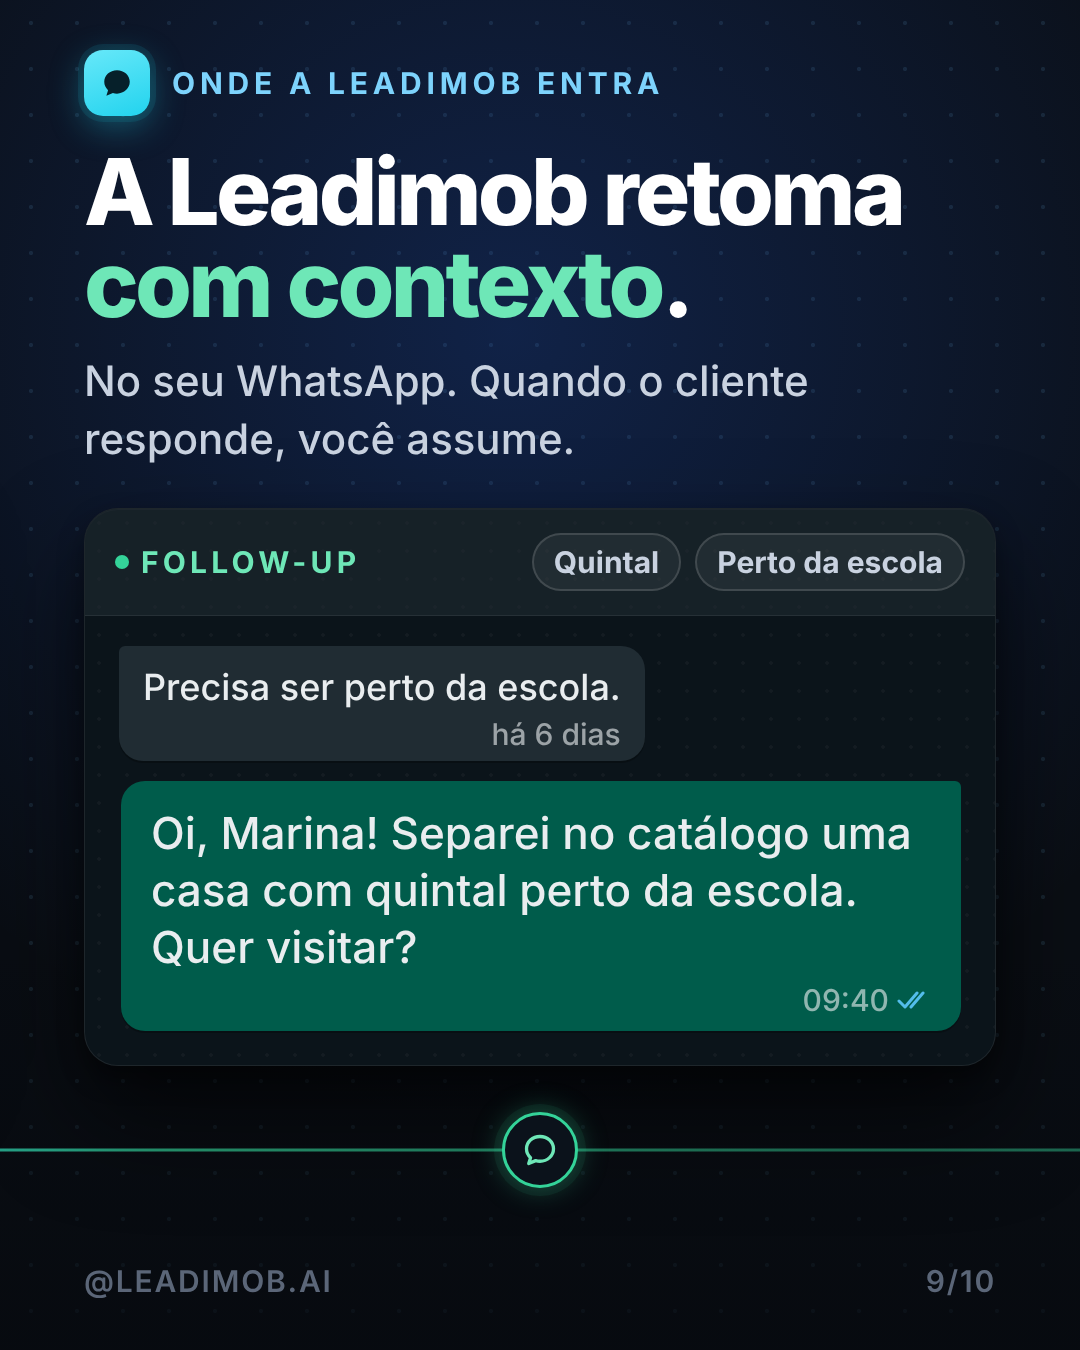
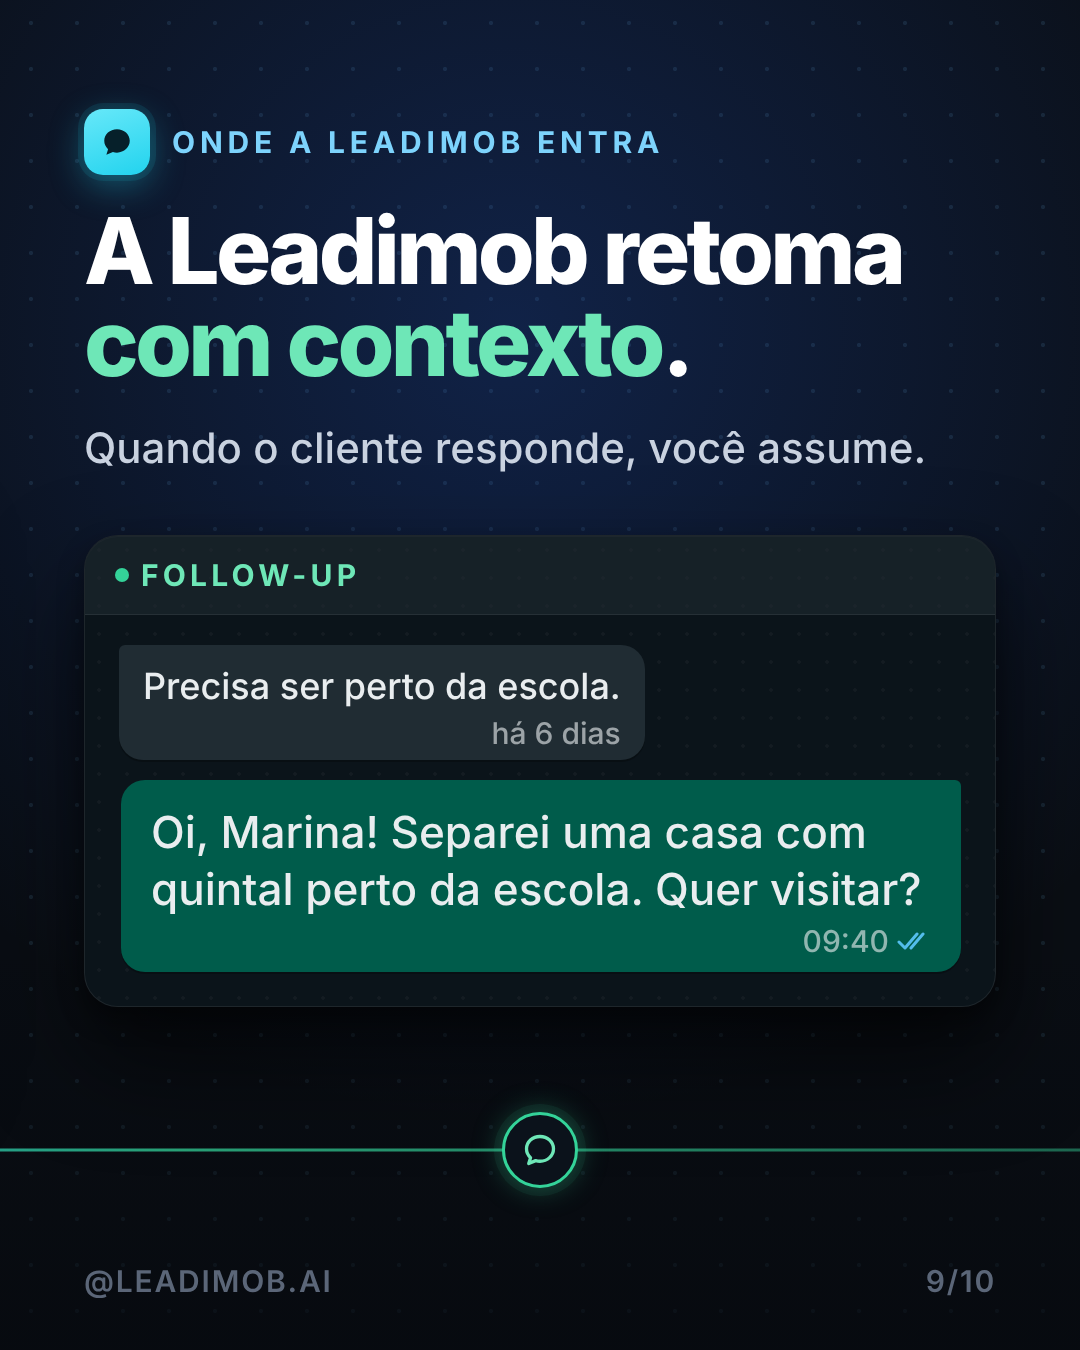
11/10: carrossel ajustes de margem (em crítica final, sem aprovação)
Claude-Session: https://claude.ai/code/session_0145jJKuZvfRBYxMPxCVaBcw

diff --git a/instagram/2026-10-11/src/c1-index.html b/instagram/2026-10-11/src/c1-index.html
@@ -126,11 +126,11 @@ body{background:#0A0E14;width:10800px;height:1350px;overflow:hidden;font-family:
  <div class="p">Algo novo para ele, e uma pergunta fácil de responder.</div>
  <div style="margin-top:50px">
   <div class="ann" style="color:#A5F3FC;margin-left:40px">Motivo novo</div>
-  <div style="position:relative;z-index:3;width:2px;height:96px;background:#22D3EE;margin:14px 0 -62px 96px"></div>
+  <div style="position:relative;z-index:3;width:2px;height:64px;background:#22D3EE;margin:14px 0 -30px 96px"></div>
   <div class="wa" style="padding:30px 34px">
    <div class="bub bout" style="font-size:44px;line-height:1.3;padding:24px 30px 16px;max-width:none;margin-left:0;outline:1px solid rgba(34,211,238,.0)"><span style="color:#fff;font-weight:600">Consegui a planta do apartamento que você pediu.</span> Te mando agora?<div class="bt">14:20 <svg class="tk" viewBox="0 0 34 22"><path d="M2 12l6 6L20 4M14 18l12-14" stroke="#53BDEB" stroke-width="3" fill="none" stroke-linecap="round" stroke-linejoin="round"/></svg></div></div>
   </div>
-  <div id="pqline" style="position:relative;z-index:3;width:2px;height:124px;background:rgba(201,210,224,.7);margin:-90px 300px 14px auto"></div>
+  <div id="pqline" style="position:relative;z-index:3;width:2px;height:64px;background:rgba(201,210,224,.7);margin:-30px 300px 14px auto"></div>
   <div class="ann" style="color:#C9D2E0;justify-content:flex-end;margin-right:40px">Pergunta fácil</div>
  </div>
  <div class="foot"><span>@LEADIMOB.AI</span><span>3/10</span></div></div>
@@ -186,17 +186,17 @@ body{background:#0A0E14;width:10800px;height:1350px;overflow:hidden;font-family:
  <div class="p">Escolher é mais fácil do que decidir do zero.</div>
  <div class="wa conv">
   <div class="bub bin">Ainda estou em dúvida entre as opções.<div class="bt">ontem</div></div>
-  <div class="bub bout"><span class='mv'>Para eu filtrar melhor:</span> você prefere mais espaço ou ficar perto do trabalho?<div class="bt">18:15 <svg class="tk" viewBox="0 0 34 22"><path d="M2 12l6 6L20 4M14 18l12-14" stroke="#53BDEB" stroke-width="3" fill="none" stroke-linecap="round" stroke-linejoin="round"/></svg></div></div><div style='display:flex;gap:16px;margin-top:20px'><div class='bub bin' style='font-size:34px;padding:16px 24px;opacity:.85'>Mais espaço</div><div class='bub bin' style='font-size:34px;padding:16px 24px;opacity:.85'>Perto do trabalho</div></div>
+  <div class="bub bout"><span class='mv'>Para eu filtrar melhor:</span> você prefere mais espaço ou ficar perto do trabalho?<div class="bt">18:15 <svg class="tk" viewBox="0 0 34 22"><path d="M2 12l6 6L20 4M14 18l12-14" stroke="#53BDEB" stroke-width="3" fill="none" stroke-linecap="round" stroke-linejoin="round"/></svg></div></div><div class='qr'><div class='rb'>Mais espaço</div><div class='rb'>Perto do trabalho</div></div>
  </div>
  <div class="foot"><span>@LEADIMOB.AI</span><span>8/10</span></div></div>
 <!-- 9 Leadimob -->
 <div class="sl" style="left:8640px">
  <div class="ttl"><div class="num"><svg width="34" height="34" viewBox="0 0 24 24"><path d="M12 3c5 0 9 3.600 9 8.200S17 19.500 12 19.500c-1 0-2-.15-2.900-.42L4.500 21l1.200-3.900C4 15.600 3 13.500 3 11.200 3 6.600 7 3 12 3z" fill="#06202A"/></svg></div><div class="kick">Onde a Leadimob entra</div></div>
  <div class="h2">A Leadimob retoma <span style="color:#6EE7B7">com contexto</span>.</div>
- <div class="p" style="margin-top:22px">No seu WhatsApp. Quando o cliente responde, você assume.</div>
- <div class="wa chat" style="margin-top:40px"><div class="hd"><div class="lab" style="color:#6EE7B7"><i style="width:14px;height:14px;border-radius:50%;background:#34D399;display:block"></i>Follow-up</div><div class="st" style="display:flex;gap:14px"><span class="chip nt" style="padding:12px 20px">Quintal</span><span class="chip nt" style="padding:12px 20px">Perto da escola</span></div></div><div class="bx">
+ <div class="p">Quando o cliente responde, você assume.</div>
+ <div class="wa chat"><div class="hd"><div class="lab" style="color:#6EE7B7"><i style="width:14px;height:14px;border-radius:50%;background:#34D399;display:block"></i>Follow-up</div></div><div class="bx">
   <div class="bub bin" style="font-size:36px;padding:18px 24px 12px;margin-bottom:20px">Precisa ser perto da escola.<div class="bt">há 6 dias</div></div>
-  <div class="bub bout">Oi, Marina! Separei no catálogo uma casa com quintal perto da escola. Quer visitar?<div class="bt">09:40 <svg class="tk" viewBox="0 0 34 22"><path d="M2 12l6 6L20 4M14 18l12-14" stroke="#53BDEB" stroke-width="3" fill="none" stroke-linecap="round" stroke-linejoin="round"/></svg></div></div>
+  <div class="bub bout">Oi, Marina! Separei uma casa com quintal perto da escola. Quer visitar?<div class="bt">09:40 <svg class="tk" viewBox="0 0 34 22"><path d="M2 12l6 6L20 4M14 18l12-14" stroke="#53BDEB" stroke-width="3" fill="none" stroke-linecap="round" stroke-linejoin="round"/></svg></div></div>
  </div></div>
  <div class="foot"><span>@LEADIMOB.AI</span><span>9/10</span></div></div>
 

diff --git a/instagram/2026-10-11/carrossel/carrossel-editor.html b/instagram/2026-10-11/carrossel/carrossel-editor.html
@@ -312,7 +312,7 @@ input[type=range]{width:100%;accent-color:#6C5CE7;height:18px;cursor:pointer;}
     </div>
   </div>
 </div>
-<script id="deck-data" type="application/json">{"kit": "tech", "formato": "4:5", "paleta": {"bg": "#0A0E14", "fg": "#FFFFFF", "muted": "#8A93A3", "accent": "#22D3EE", "surface": "#141B28", "cream": "#F3F7FB"}, "handle": "@leadimob.ai", "slides": [{"tipo": "capa", "kicker": "RETOMADA · SALVE ESTE POST", "titulo": "Retome sem cobrar.", "sub": "Mensagens para o cliente que sumiu, prontas para adaptar."}, {"tipo": "conteudo", "kicker": "O QUE EVITAR", "titulo": "Cobrar resposta vira silêncio.", "sub": "Mensagem que só pede retorno não dá motivo para responder."}, {"tipo": "conteudo", "kicker": "A REGRA", "titulo": "Volte com um motivo.", "sub": "Consegui a planta do apartamento que você pediu. Te mando agora?"}, {"tipo": "conteudo", "kicker": "ELE DISSE: ESCOLA", "titulo": "Mostre uma opção que bate com o pedido.", "sub": "Achei uma casa na mesma rua da escola. Quer ver por dentro?"}, {"tipo": "conteudo", "kicker": "ELE DISSE: O BAIRRO", "titulo": "Conte uma novidade do bairro.", "sub": "Abriram um mercado e uma padaria na rua do apartamento. Quer passar lá de novo?"}, {"tipo": "conteudo", "kicker": "ELE DISSE: SEM TEMPO", "titulo": "Ofereça um horário livre.", "sub": "Reservei um horário depois do seu trabalho. Pode ser? Quinta · 18:30"}, {"tipo": "conteudo", "kicker": "ELE PERGUNTOU: PET", "titulo": "Traga a resposta da dúvida que ficou.", "sub": "Confirmei com o síndico: aceita, sim. Quer ver a área de lazer na visita?"}, {"tipo": "conteudo", "kicker": "ELE DISSE: EM DÚVIDA", "titulo": "Peça uma escolha simples.", "sub": "Para eu filtrar melhor: você prefere mais espaço ou ficar perto do trabalho?"}, {"tipo": "conteudo", "kicker": "ONDE A LEADIMOB ENTRA", "titulo": "A Leadimob retoma com contexto.", "sub": "No seu WhatsApp. Quando o cliente responde, você assume."}, {"tipo": "cta", "titulo": "Qual retomada funciona com os seus clientes?", "acao": "Comente RETOMADA", "sub": "E conte qual mensagem você usa para voltar a conversar. Solicite uma demonstração — link na bio."}]}</script>
+<script id="deck-data" type="application/json">{"kit": "tech", "formato": "4:5", "paleta": {"bg": "#0A0E14", "fg": "#FFFFFF", "muted": "#8A93A3", "accent": "#22D3EE", "surface": "#141B28", "cream": "#F3F7FB"}, "handle": "@leadimob.ai", "slides": [{"tipo": "capa", "kicker": "RETOMADA · SALVE ESTE POST", "titulo": "Retome sem cobrar.", "sub": "Mensagens para o cliente que sumiu, prontas para adaptar."}, {"tipo": "conteudo", "kicker": "O QUE EVITAR", "titulo": "Cobrar resposta vira silêncio.", "sub": "Mensagem que só pede retorno não dá motivo para responder."}, {"tipo": "conteudo", "kicker": "A REGRA", "titulo": "Volte com um motivo.", "sub": "Consegui a planta do apartamento que você pediu. Te mando agora?"}, {"tipo": "conteudo", "kicker": "ELE DISSE: ESCOLA", "titulo": "Mostre uma opção que bate com o pedido.", "sub": "Achei uma casa na mesma rua da escola. Quer ver por dentro?"}, {"tipo": "conteudo", "kicker": "ELE DISSE: O BAIRRO", "titulo": "Conte uma novidade do bairro.", "sub": "Abriram um mercado e uma padaria na rua do apartamento. Quer passar lá de novo?"}, {"tipo": "conteudo", "kicker": "ELE DISSE: SEM TEMPO", "titulo": "Ofereça um horário livre.", "sub": "Reservei um horário depois do seu trabalho. Pode ser? Quinta · 18:30"}, {"tipo": "conteudo", "kicker": "ELE PERGUNTOU: PET", "titulo": "Traga a resposta da dúvida que ficou.", "sub": "Confirmei com o síndico: aceita, sim. Quer ver a área de lazer na visita?"}, {"tipo": "conteudo", "kicker": "ELE DISSE: EM DÚVIDA", "titulo": "Peça uma escolha simples.", "sub": "Para eu filtrar melhor: você prefere mais espaço ou ficar perto do trabalho?"}, {"tipo": "conteudo", "kicker": "ONDE A LEADIMOB ENTRA", "titulo": "A Leadimob retoma com contexto.", "sub": "Quando o cliente responde, você assume."}, {"tipo": "cta", "titulo": "Qual retomada funciona com os seus clientes?", "acao": "Comente RETOMADA", "sub": "E conte qual mensagem você usa para voltar a conversar. Solicite uma demonstração — link na bio."}]}</script>
 <script>
 const KITS = {
   "editorial":     {disp:"Anton", body:"Inter", mono:"JetBrains Mono", serif:"Instrument Serif",
